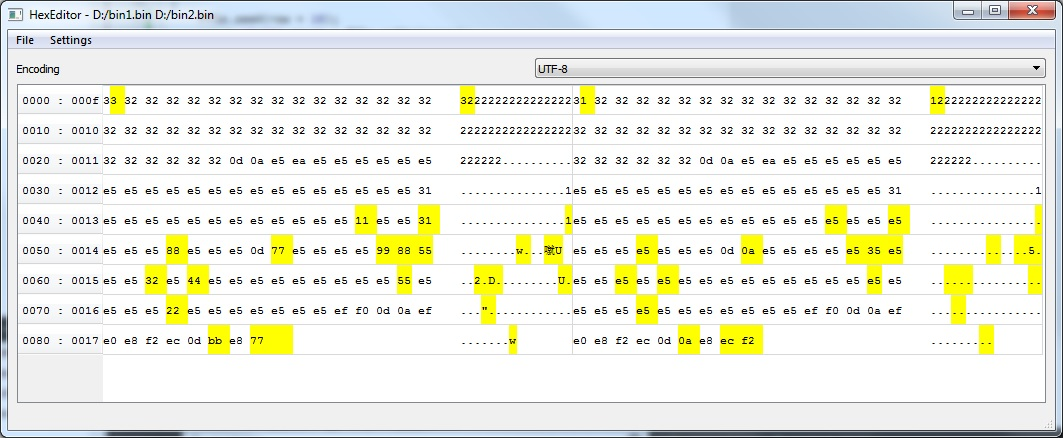
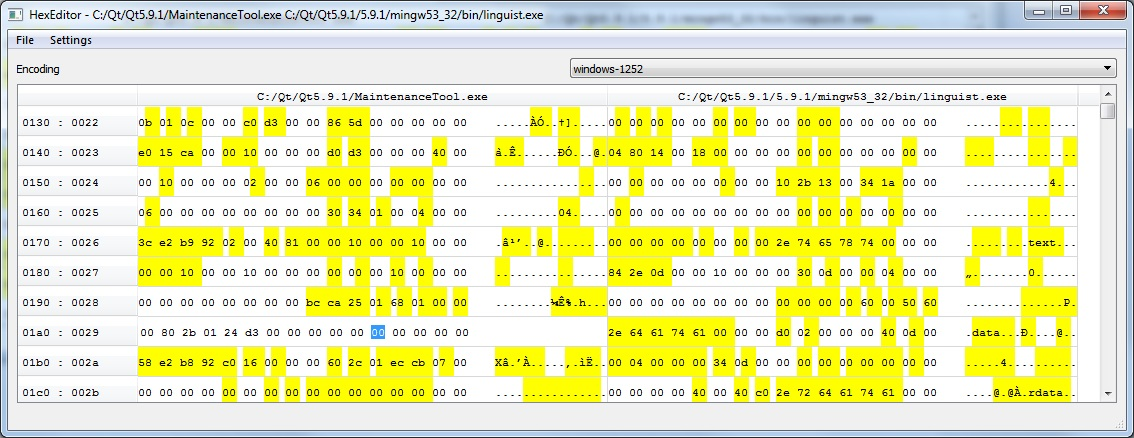
Dont show md5

diff --git a/src/ByteArrayListModel.cpp b/src/ByteArrayListModel.cpp
@@ -161,7 +161,7 @@ QVariant ByteArrayListModel::headerData(int section, Qt::Orientation orientation
                     QString::number(end, 16).rightJustified(4, '0');
         }else
         {
-            ret = QString("%1(md5=%2)").arg(getFilename()).arg(hash);
+            ret = getFilename();
         }
     }
         break;
@@ -227,5 +227,5 @@ Qt::ItemFlags ByteArrayListModel::flags(const QModelIndex &index) const
 {
     Q_UNUSED(index);
 
-    return Qt::ItemIsEditable | Qt::ItemIsEnabled;
+    return Qt::ItemIsEditable | Qt::ItemIsEnabled ;
 }
